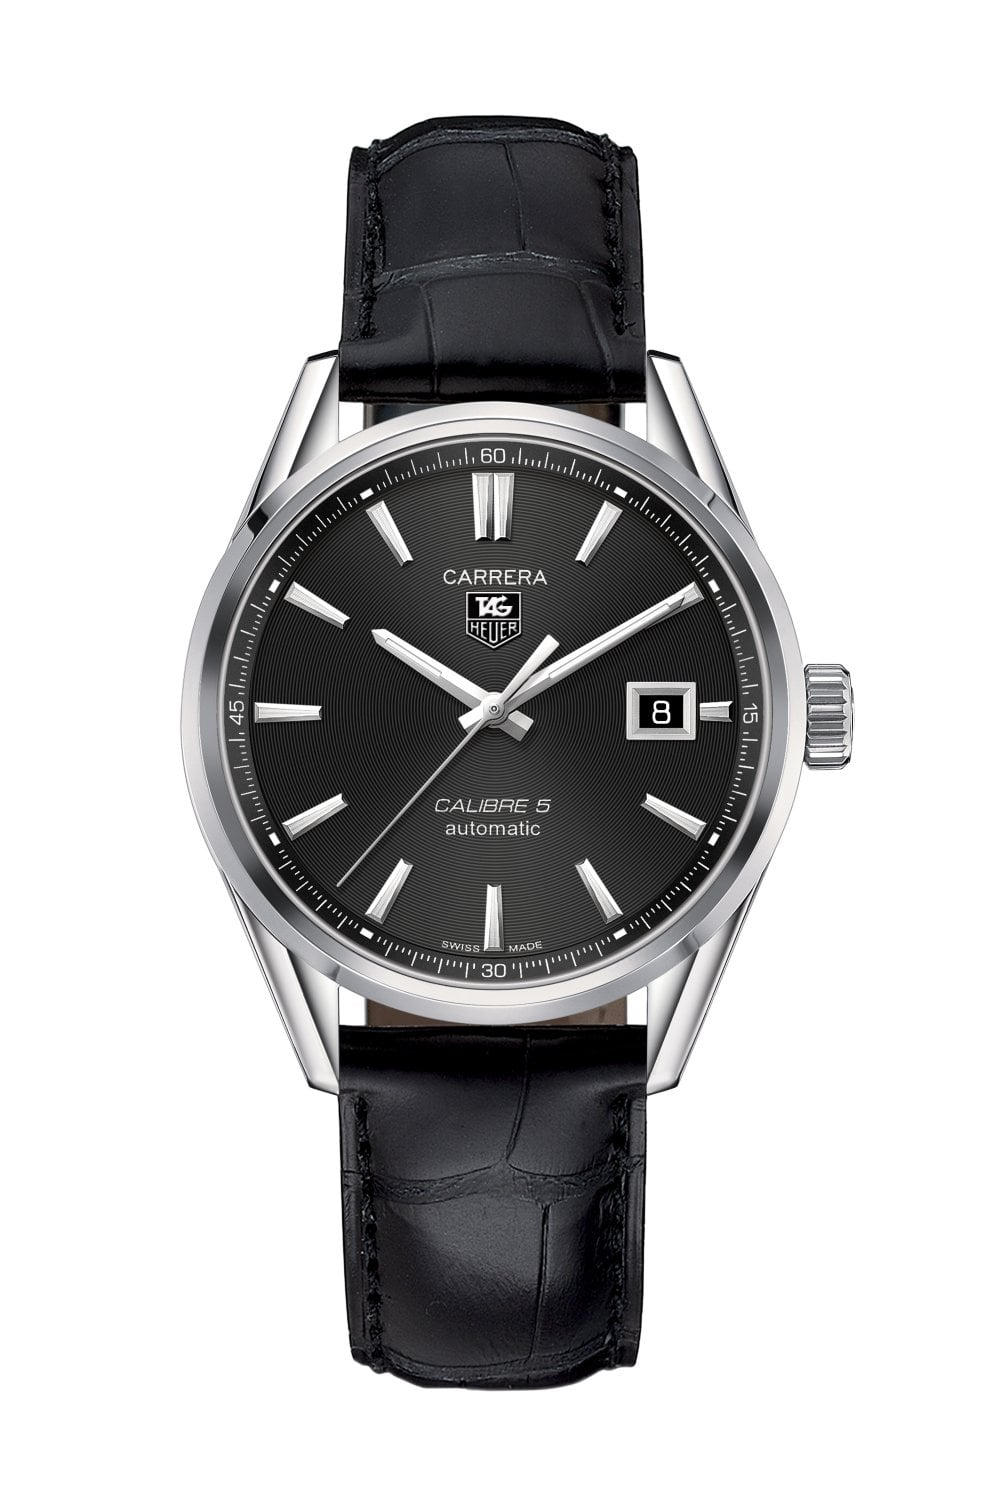
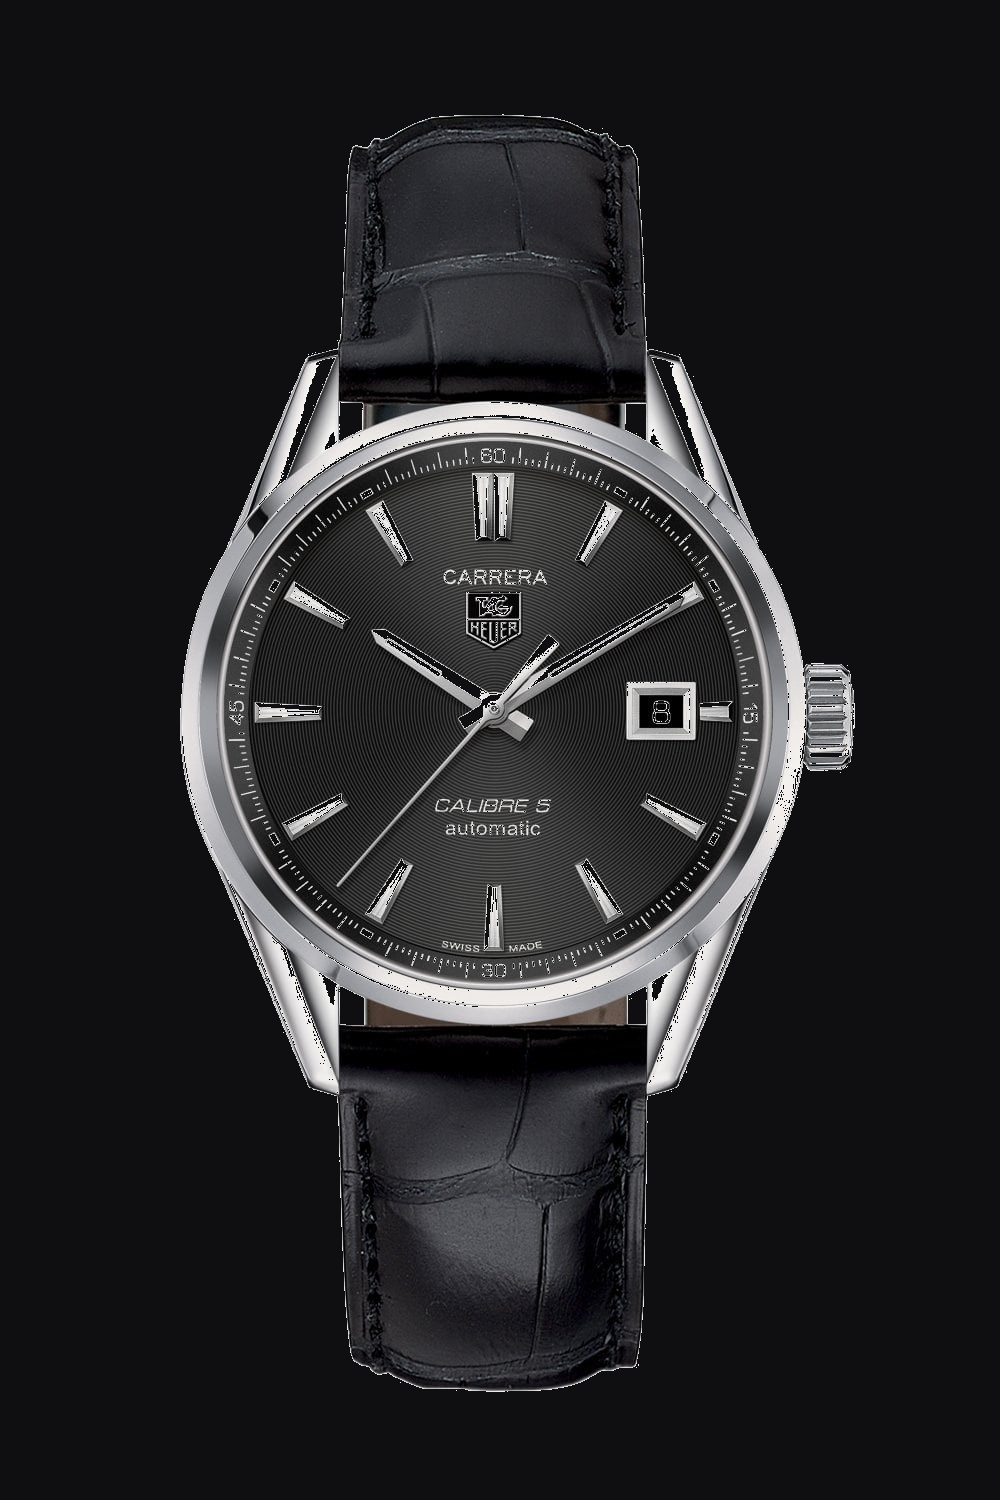
Remove card frame from hero watch showcase, float timepiece seamlessly on dark background

diff --git a/templates/store/home.html b/templates/store/home.html
@@ -49,54 +49,66 @@
             </div>
         </div>
 
-        <!-- 3D Perspective Card Showcase -->
-        <div style="perspective: 1200px; display: flex; justify-content: center;" id="heroCardContainer">
+        <!-- Seamless Floating Watch Showcase (No Card Frame) -->
+        <div style="display: flex; justify-content: center; position: relative;" id="heroCardContainer">
             {% set hero_watch = featured_watches[0] if featured_watches else None %}
-            <div id="heroPerspectiveCard" style="background: linear-gradient(145deg, #1c1c21 0%, #121214 100%); border: 1px solid rgba(197, 168, 128, 0.4); border-radius: 16px; padding: 28px; width: 100%; max-width: 420px; box-shadow: 0 25px 50px -12px rgba(0, 0, 0, 0.6), 0 0 40px rgba(197,168,128,0.12); transform: rotateY(-8deg) rotateX(4deg); transition: transform 0.2s cubic-bezier(0.16, 1, 0.3, 1), box-shadow 0.3s ease;">
-                <div style="display: flex; justify-content: space-between; align-items: center; margin-bottom: 18px;">
-                    <span style="font-size: 11px; letter-spacing: 1.5px; text-transform: uppercase; color: var(--color-gold); font-weight: 700;">
-                        <i class="fas fa-crown" style="margin-right: 4px;"></i> Curated Highlight
+            <div id="heroPerspectiveCard" style="width: 100%; max-width: 440px; position: relative; background: transparent; border: none; box-shadow: none; padding: 0;">
+                
+                <!-- Floating Top Badges -->
+                <div style="display: flex; justify-content: space-between; align-items: center; margin-bottom: 14px;">
+                    <span style="font-size: 11px; letter-spacing: 1.5px; text-transform: uppercase; color: var(--color-gold); font-weight: 700; display: inline-flex; align-items: center; gap: 6px; background: rgba(197, 168, 128, 0.12); border: 1px solid rgba(197, 168, 128, 0.3); padding: 5px 14px; border-radius: 20px;">
+                        <i class="fas fa-crown"></i> Curated Highlight
                     </span>
-                    <span class="badge badge-success" style="font-size: 11px; padding: 4px 10px;">
+                    <span class="badge badge-success" style="font-size: 11px; padding: 5px 12px; border-radius: 20px;">
                         {% if hero_watch and hero_watch.stock > 0 %}{{ hero_watch.stock }} in Showroom{% else %}Verified Certified{% endif %}
                     </span>
                 </div>
 
-                <!-- Showcase Image with ambient gold halo -->
-                <div style="width: 100%; height: 280px; background: #0c0c0e; border-radius: 10px; display: flex; align-items: center; justify-content: center; position: relative; overflow: hidden; border: 1px solid rgba(197,168,128,0.2); margin-bottom: 20px; box-shadow: inset 0 0 30px rgba(0,0,0,0.8);">
-                    <div style="position: absolute; width: 180px; height: 180px; background: radial-gradient(circle, rgba(197, 168, 128, 0.25) 0%, rgba(0,0,0,0) 70%); border-radius: 50%; pointer-events: none;"></div>
+                <!-- Floating Timepiece Image (Directly on Hero Background) -->
+                <div style="position: relative; width: 100%; min-height: 330px; display: flex; align-items: center; justify-content: center; margin: 10px 0 24px 0;">
+                    <!-- Ambient Radial Gold Halo behind watch -->
+                    <div style="position: absolute; width: 340px; height: 340px; background: radial-gradient(circle, rgba(197, 168, 128, 0.3) 0%, rgba(197, 168, 128, 0.08) 50%, rgba(0,0,0,0) 70%); border-radius: 50%; pointer-events: none; filter: blur(12px);"></div>
+                    
                     {% if hero_watch and hero_watch.image %}
-                    <img src="{{ url_for('static', filename='uploads/watches/' + hero_watch.image) }}" alt="{{ hero_watch.brand }} {{ hero_watch.model }}" style="width: 100%; height: 100%; object-fit: cover; transition: transform 0.6s cubic-bezier(0.16, 1, 0.3, 1);" class="hero-watch-img">
+                    <a href="{{ url_for('watch_detail', watch_id=hero_watch.watch_id) }}" style="display: inline-block; position: relative; z-index: 2; text-decoration: none;">
+                        <img src="{{ url_for('static', filename='uploads/watches/' + hero_watch.image) }}" 
+                             alt="{{ hero_watch.brand }} {{ hero_watch.model }}" 
+                             style="max-width: 330px; max-height: 340px; width: 100%; height: auto; object-fit: contain; border-radius: 12px; filter: drop-shadow(0 20px 30px rgba(0,0,0,0.85)); transition: transform 0.4s ease, filter 0.4s ease;" 
+                             class="hero-watch-floating-img">
+                    </a>
                     {% else %}
-                    <div style="text-align: center;">
-                        <i class="fas fa-clock" style="font-size: 80px; color: var(--color-gold); filter: drop-shadow(0 0 15px rgba(197,168,128,0.4));"></i>
+                    <div style="text-align: center; position: relative; z-index: 2;">
+                        <i class="fas fa-clock" style="font-size: 80px; color: var(--color-gold); filter: drop-shadow(0 0 20px rgba(197,168,128,0.5));"></i>
                         <div style="font-size: 11px; color: #71717a; margin-top: 14px; letter-spacing: 1px; text-transform: uppercase;">Certified Horology</div>
                     </div>
                     {% endif %}
-                    <div style="position: absolute; bottom: 12px; left: 12px;">
-                        <span class="badge" style="background: rgba(0,0,0,0.8); color: var(--color-gold); border: 1px solid rgba(197,168,128,0.3); font-size: 11px;">
+
+                    <!-- Condition Badge floating at bottom of watch -->
+                    <div style="position: absolute; bottom: 8px; right: 16px; z-index: 3;">
+                        <span class="badge" style="background: rgba(18, 18, 20, 0.85); color: var(--color-gold); border: 1px solid rgba(197,168,128,0.4); font-size: 11px; backdrop-filter: blur(4px); padding: 4px 10px; border-radius: 12px;">
                             {{ hero_watch.condition_status if hero_watch else 'Excellent' }} Grade
                         </span>
                     </div>
                 </div>
 
-                <div>
-                    <h3 style="font-family: 'Playfair Display', serif; font-size: 24px; color: #fff; margin: 0 0 4px 0;">
+                <!-- Floating Timepiece Details & Actions (Direct on Hero Background) -->
+                <div style="position: relative; z-index: 2;">
+                    <h3 style="font-family: 'Playfair Display', serif; font-size: 26px; color: #fff; margin: 0 0 4px 0; font-weight: 600; letter-spacing: 0.5px;">
                         {{ hero_watch.brand if hero_watch else 'Rolex' }} {{ hero_watch.model if hero_watch else 'Submariner Date' }}
                     </h3>
-                    <p style="font-size: 13px; color: #a1a1aa; margin: 0 0 16px 0;">
-                        Ref. {{ hero_watch.reference_number if hero_watch else '116610LN' }} • {{ hero_watch.movement if hero_watch else 'Automatic 3135' }}
+                    <p style="font-size: 13px; color: #a1a1aa; margin: 0 0 18px 0;">
+                        Ref. {{ hero_watch.reference_number if hero_watch else '116610LN' }} • {{ hero_watch.movement if hero_watch else 'Automatic' }}
                     </p>
                     
-                    <div style="display: flex; justify-content: space-between; align-items: center; border-top: 1px solid rgba(255,255,255,0.08); padding-top: 16px;">
+                    <div style="display: flex; justify-content: space-between; align-items: center; border-top: 1px solid rgba(255,255,255,0.1); padding-top: 16px;">
                         <div>
-                            <span style="font-size: 11px; color: #71717a; text-transform: uppercase; letter-spacing: 0.5px;">Direct Value</span>
-                            <div style="font-size: 22px; font-weight: 700; color: #fff;">
-                                ₱ {{ "{:,.2f}".format(hero_watch.selling_price) if hero_watch else '450,000.00' }}
+                            <span style="font-size: 11px; color: #71717a; text-transform: uppercase; letter-spacing: 0.8px;">Direct Value</span>
+                            <div style="font-size: 24px; font-weight: 700; color: #fff; letter-spacing: 0.5px;">
+                                ₱ {{ "{:,.2f}".format(hero_watch.selling_price) if hero_watch else '280,000.00' }}
                             </div>
                         </div>
-                        <a href="{{ url_for('watch_detail', watch_id=hero_watch.watch_id) if hero_watch else url_for('shop_catalog') }}" class="btn btn-sm btn-primary" style="background: var(--color-gold); color: #121212; font-weight: 600; padding: 9px 18px; border-radius: 4px; box-shadow: 0 4px 12px rgba(197,168,128,0.3);">
-                            Inspect Piece <i class="fas fa-arrow-right" style="margin-left: 4px; font-size: 11px;"></i>
+                        <a href="{{ url_for('watch_detail', watch_id=hero_watch.watch_id) if hero_watch else url_for('shop_catalog') }}" class="btn btn-sm btn-primary" style="background: var(--color-gold); color: #121212; font-weight: 600; padding: 10px 22px; border-radius: 4px; box-shadow: 0 6px 18px rgba(197,168,128,0.3); text-decoration: none;">
+                            Inspect Piece <i class="fas fa-arrow-right" style="margin-left: 6px; font-size: 11px;"></i>
                         </a>
                     </div>
                 </div>

diff --git a/static/js/script.js b/static/js/script.js
@@ -351,29 +351,27 @@ document.addEventListener('DOMContentLoaded', () => {
         quantityInput.addEventListener('input', calculateTotal);
     }
 
-    // 13. Interactive 3D Perspective Card Tilt (Storefront Hero)
+    // 13. Interactive Floating Watch Showcase (Storefront Hero)
     const heroCardContainer = document.getElementById('heroCardContainer');
-    const heroCard = document.getElementById('heroPerspectiveCard');
+    const floatingImg = document.querySelector('.hero-watch-floating-img');
 
-    if (heroCardContainer && heroCard) {
+    if (heroCardContainer && floatingImg) {
         heroCardContainer.addEventListener('mousemove', (e) => {
-            const rect = heroCard.getBoundingClientRect();
+            const rect = heroCardContainer.getBoundingClientRect();
             const x = e.clientX - rect.left;
             const y = e.clientY - rect.top;
             
             const centerX = rect.width / 2;
             const centerY = rect.height / 2;
             
-            const rotateX = ((y - centerY) / centerY) * -10;
-            const rotateY = ((x - centerX) / centerX) * 10;
+            const moveX = ((x - centerX) / centerX) * 8;
+            const moveY = ((y - centerY) / centerY) * 8;
             
-            heroCard.style.transform = `rotateX(${rotateX.toFixed(2)}deg) rotateY(${rotateY.toFixed(2)}deg) scale3d(1.02, 1.02, 1.02)`;
-            heroCard.style.boxShadow = `0 30px 60px -10px rgba(0,0,0,0.7), 0 0 50px rgba(197,168,128,0.2)`;
+            floatingImg.style.transform = `translate(${moveX.toFixed(1)}px, ${moveY.toFixed(1)}px) scale(1.03)`;
         });
 
         heroCardContainer.addEventListener('mouseleave', () => {
-            heroCard.style.transform = 'rotateY(-8deg) rotateX(4deg) scale3d(1, 1, 1)';
-            heroCard.style.boxShadow = '0 25px 50px -12px rgba(0, 0, 0, 0.6), 0 0 40px rgba(197,168,128,0.12)';
+            floatingImg.style.transform = 'translate(0px, 0px) scale(1)';
         });
     }
 });
